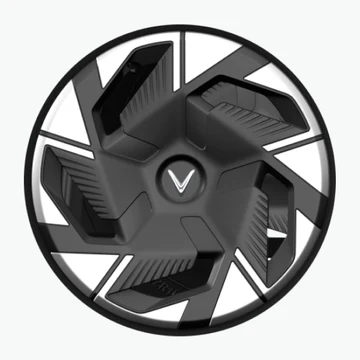
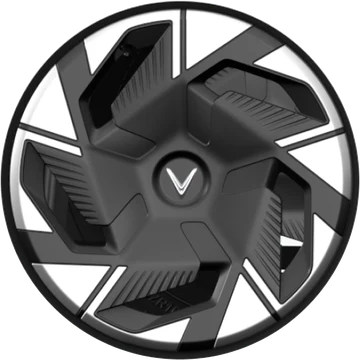
Ốp lazang: dùng chính ảnh thiết kế (cắt tròn, nền trong suốt) dán lên mặt ốp vồng + thành viền → giống 100% ảnh gốc

diff --git a/src/three/WheelCover.tsx b/src/three/WheelCover.tsx
@@ -1,118 +1,30 @@
-// Phụ kiện "Ốp lazang tua-bin": khối 3D dựng bằng code (không cần file model), lắp lên 4 mâm khi bật trong tab Phụ kiện.
-// Hình dạng theo ảnh mẫu: mâm nền trắng hơi vồng · viền đen ngoài · 5 cánh tua-bin đen xoắn, mỗi cánh có khung nổi + hốc lõm
-// có gân · tâm đen ngũ giác bo tròn · logo V bạc. Toạ độ cục bộ: mặt ốp nằm trên mặt phẳng XY, bán kính 1, +Z hướng ra ngoài;
-// mọi chi tiết được "ép" theo độ vồng của mặt ốp (dome) nên nằm sát bề mặt.
+// Phụ kiện "Ốp lazang tua-bin": dùng chính ảnh thiết kế (public/accessories/wheel-cover-face.webp — ảnh gốc cắt tròn,
+// nền trong suốt) dán lên 1 mặt ốp hơi vồng + thành viền dày như ốp thật → giữ nguyên 100% thiết kế.
+// Ốp tự tìm 4 mâm trong model (vùng "rim") và lắp đè ra ngoài mép mâm. Ảnh không bị lật ở bên nào (nhìn từ ngoài vào).
+// Đổi mẫu ốp: thay file ảnh (vuông, hình tròn sát mép, nền trong suốt).
 import { useEffect, useMemo } from 'react';
-import { useThree } from '@react-three/fiber';
+import { useLoader, useThree } from '@react-three/fiber';
 import * as THREE from 'three';
-import { mergeGeometries } from 'three/examples/jsm/utils/BufferGeometryUtils.js';
 
-const TAU = Math.PI * 2, DEG = Math.PI / 180;
-const BLADES = 5;
-const R0 = 0.3, R1 = 0.955;          // cánh: từ mép tâm tới sát viền đen
-const TWIST = -12 * DEG;              // cánh hơi nghiêng theo chiều kim đồng hồ khi đi ra ngoài (cánh gần như thẳng, góc cạnh)
-// bề rộng góc của cánh ở trong / ngoài (chu kỳ 72°): gần tâm cánh gần như liền nhau, ra ngoài hẹp lại
-// → phần trắng là các khe nhọn, rộng dần ra viền (như ảnh mẫu)
-const W0 = 70 * DEG, W1 = 55 * DEG;
-const TIP_CUT = 0.2;                 // đầu cánh cắt xéo: mép sau ngắn hơn mép trước → khe trắng hình tam giác nhọn
-const BLADE_H = 0.05, POCKET_H = 0.014, RIB_H = 0.02, HUB_H = 0.06;
+export const COVER_TEXTURE = '/accessories/wheel-cover-face.webp';
+const DOME = 0.07;        // độ vồng ở tâm (theo bán kính ốp)
+const EDGE = 0.06;        // bề dày thành viền
+const RIM_LIP = 0.008;    // m: khoảng nhô của mép mâm / thành lốp so với mặt ngoài vùng mâm
 
-/** Độ vồng của mặt ốp tại bán kính r (0 → 1). */
-const dome = (r: number) => 0.05 * (1 - Math.min(1, r / 0.95) ** 2) + 0.012;
-
-/** Góc giữa cánh tại bán kính r (xoắn dần ra ngoài). */
-const bladeCenter = (c: number, r: number) => c + TWIST * ((r - R0) / (R1 - R0));
-const bladeWidth = (r: number, inset = 0) => W0 + (W1 - W0) * ((r - R0) / (R1 - R0)) - inset;
-const polar = (r: number, a: number) => new THREE.Vector2(r * Math.cos(a), r * Math.sin(a));
-
-/** Viền 1 cánh (hoặc hốc bên trong nếu inset > 0) dạng đường khép kín. Mép trước dài tới rOut, mép sau dừng sớm hơn
- *  (cut) → đầu cánh là 1 đường cắt xéo theo cung. */
-function bladeOutline(c: number, rIn: number, rOut: number, inset: number, cut = TIP_CUT, n = 14): THREE.Vector2[] {
-  const pts: THREE.Vector2[] = [];
-  const edge = (r: number, side: 1 | -1) => bladeCenter(c, r) + side * bladeWidth(r, inset) / 2;
-  const rTrail = rOut - cut;
-  for (let i = 0; i <= n; i++) { const r = rIn + (rOut - rIn) * i / n; pts.push(polar(r, edge(r, 1))); }
-  // đầu cánh: đi theo cung, bán kính giảm dần từ mép trước (rOut) sang mép sau (rTrail) — nối thẳng thì đoạn thẳng
-  // băng qua ~60° sẽ võng sâu vào trong, cắt cụt cả đầu cánh
-  const a0 = edge(rOut, 1), a1 = edge(rTrail, -1);
-  for (let i = 1; i < 10; i++) { const t = i / 10; pts.push(polar(rOut + (rTrail - rOut) * t, a0 + (a1 - a0) * t)); }
-  for (let i = n; i >= 0; i--) { const r = rIn + (rTrail - rIn) * i / n; pts.push(polar(r, edge(r, -1))); }
-  for (let i = 1; i < 4; i++) { const a = edge(rIn, -1) + (edge(rIn, 1) - edge(rIn, -1)) * i / 4; pts.push(polar(rIn, a)); }
-  return pts;
-}
-
-/** Ép khối phẳng theo độ vồng: z += dome(r). */
-function conform(g: THREE.BufferGeometry, lift = 0) {
+/** Mặt ốp: đĩa chia nhiều vòng (để uốn vồng), toạ độ ảnh phẳng theo XY; +Z hướng ra ngoài. */
+function faceGeometry() {
+  const g = new THREE.RingGeometry(0.0005, 1, 128, 32);
   const p = g.attributes.position;
-  for (let i = 0; i < p.count; i++) { const x = p.getX(i), y = p.getY(i); p.setZ(i, p.getZ(i) + dome(Math.hypot(x, y)) + lift); }
+  for (let i = 0; i < p.count; i++) { const r = Math.hypot(p.getX(i), p.getY(i)); p.setZ(i, DOME * (1 - r * r)); }
   g.computeVertexNormals();
   return g;
 }
 
-const extrude = (shape: THREE.Shape, depth: number, bevel = 0.008) => new THREE.ExtrudeGeometry(shape, {
-  depth, curveSegments: 6, bevelEnabled: bevel > 0, bevelThickness: bevel, bevelSize: bevel, bevelSegments: 2,
-});
-
-/** Dựng hình học 1 ốp, gom theo vật liệu (mỗi vật liệu 1 lưới → 4 ốp chỉ 20 lưới). */
-export function buildCover() {
-  // mâm nền trắng + viền đen: xoay biên dạng quanh trục (lathe) rồi dựng đứng theo +Z
-  const lathe = (pts: [number, number][]) => new THREE.LatheGeometry(pts.map(([r, h]) => new THREE.Vector2(r, h)), 96).rotateX(Math.PI / 2);
-  const baseProfile: [number, number][] = [];
-  for (let i = 0; i <= 12; i++) { const r = 0.93 * i / 12; baseProfile.push([r, dome(r)]); }
-  baseProfile.push([0.93, 0.004]);
-  const base = lathe(baseProfile.reverse());
-  // viền đen ôm ra ngoài rồi vòng ngược vào trong (che khe giữa ốp và mép mâm)
-  const ring = lathe([[0.925, 0.0], [0.93, 0.03], [0.95, 0.045], [0.985, 0.04], [1.0, 0.015], [0.998, -0.06], [0.97, -0.08]].reverse() as [number, number][]);
-
-  const frames: THREE.BufferGeometry[] = [], pockets: THREE.BufferGeometry[] = [], ribs: THREE.BufferGeometry[] = [];
-  for (let b = 0; b < BLADES; b++) {
-    const c = b * TAU / BLADES + 90 * DEG;
-    // khung cánh: viền ngoài, khoét hốc bên trong
-    const shape = new THREE.Shape(bladeOutline(c, R0, R1, 0));
-    const hole = () => bladeOutline(c, R0 + 0.1, R1 - 0.1, 22 * DEG, TIP_CUT);
-    shape.holes.push(new THREE.Path(hole().reverse()));   // lỗ phải ngược chiều viền ngoài, nếu không mặt trên của khung bị hỏng
-    frames.push(conform(extrude(shape, BLADE_H)));
-    // đáy hốc (thấp, tối hơn)
-    const pocket = new THREE.Shape(hole());
-    pockets.push(conform(extrude(pocket, POCKET_H, 0)));
-    // gân trong hốc: các dải cung ngang cánh
-    for (let k = 0; k < 6; k++) {
-      const r = R0 + 0.14 + k * 0.058, half = bladeWidth(r, 26 * DEG) / 2, mid = bladeCenter(c, r), n = 8;
-      const outer: THREE.Vector2[] = [], inner: THREE.Vector2[] = [];
-      for (let i = 0; i <= n; i++) { const a = mid - half + 2 * half * i / n; outer.push(polar(r + 0.009, a)); inner.push(polar(r - 0.009, a)); }
-      ribs.push(conform(extrude(new THREE.Shape([...outer, ...inner.reverse()]), RIB_H, 0), POCKET_H));
-    }
-  }
-  // tâm: ngũ giác bo tròn (5 thuỳ nằm giữa các cánh)
-  const hubPts: THREE.Vector2[] = [];
-  for (let i = 0; i < 120; i++) { const a = i / 120 * TAU; hubPts.push(polar(0.33 * (1 + 0.1 * Math.cos(BLADES * (a - 90 * DEG))), a)); }
-  const hub = conform(extrude(new THREE.Shape(hubPts), HUB_H, 0.02));
-  // logo V (chữ V chĩa xuống)
-  const v = new THREE.Shape([[-0.1, 0.06], [-0.066, 0.06], [0, -0.035], [0.066, 0.06], [0.1, 0.06], [0, -0.09]].map(([x, y]) => new THREE.Vector2(x, y)));
-  const logo = extrude(v, 0.012, 0.004).translate(0, 0, dome(0) + HUB_H + 0.02);
-  logo.computeVertexNormals();
-
-  return {
-    base, ring, logo, hub,
-    frame: mergeGeometries(frames), pocket: mergeGeometries(pockets), rib: mergeGeometries(ribs),
-  };
+/** Thành viền: ống ngắn quanh mép, từ mặt ốp vòng vào trong mép mâm (che khe). */
+function edgeGeometry() {
+  const pts = [[0.965, -EDGE], [1.0, -EDGE * 0.6], [1.005, 0], [0.99, 0.004]].map(([r, z]) => new THREE.Vector2(r, z));
+  return new THREE.LatheGeometry(pts, 128).rotateX(Math.PI / 2);
 }
-
-function makeMaterials() {
-  const m = (color: string, roughness: number, extra: Partial<THREE.MeshPhysicalMaterialParameters> = {}) =>
-    new THREE.MeshPhysicalMaterial({ color, roughness, ...extra });
-  return {
-    base: m('#f1f1ee', 0.32, { clearcoat: 1, clearcoatRoughness: 0.08 }),   // phần trắng = màu của ốp
-    ring: m('#141517', 0.45, { clearcoat: 0.4 }),
-    frame: m('#3b3c41', 0.38, { clearcoat: 0.6, clearcoatRoughness: 0.15 }),   // xám than như ảnh mẫu
-    hub: m('#393a3f', 0.32, { clearcoat: 0.8, clearcoatRoughness: 0.12 }),
-    pocket: m('#1c1d21', 0.75),
-    rib: m('#45464b', 0.55),
-    logo: m('#d9dbde', 0.18, { metalness: 1 }),
-  };
-}
-
-const RIM_LIP = 0.008;   // m: khoảng nhô của mép mâm / thành lốp so với mặt ngoài vùng mâm
 
 interface WheelFrame { center: THREE.Vector3; side: 1 | -1; radius: number }
 
@@ -139,19 +51,28 @@ function findWheels(scene: THREE.Object3D): WheelFrame[] {
 
 /** 4 ốp lazang trên xe (chỉ khi đã bật trong tab Phụ kiện). */
 export function WheelCovers({ visible }: { visible: boolean }) {
-  const scene = useThree(s => s.scene);
-  const geo = useMemo(buildCover, []), mat = useMemo(makeMaterials, []);
+  const scene = useThree(s => s.scene), gl = useThree(s => s.gl);
+  const map = useLoader(THREE.TextureLoader, COVER_TEXTURE);
+  const geo = useMemo(() => ({ face: faceGeometry(), edge: edgeGeometry() }), []);
+  const mat = useMemo(() => {
+    map.colorSpace = THREE.SRGBColorSpace;
+    map.anisotropy = gl.capabilities.getMaxAnisotropy();
+    return {
+      // ảnh đã có sẵn bóng đổ / điểm sáng của thiết kế; thêm lớp phủ bóng nhẹ để mặt vồng bắt sáng khi xoay xe
+      face: new THREE.MeshPhysicalMaterial({ map, transparent: true, alphaTest: 0.5, roughness: 0.55, clearcoat: 0.6, clearcoatRoughness: 0.2 }),
+      edge: new THREE.MeshPhysicalMaterial({ color: '#141517', roughness: 0.45, clearcoat: 0.4 }),
+    };
+  }, [map, gl]);
   const wheels = useMemo(() => findWheels(scene), [scene]);
   useEffect(() => () => { Object.values(geo).forEach(g => g.dispose()); Object.values(mat).forEach(m => m.dispose()); }, [geo, mat]);
   const noRay = () => {};   // không chặn chuột: bấm vào ốp vẫn chọn được vùng phía sau
   return (
     <group visible={visible}>
       {wheels.map((w, i) => (
-        // lắp đè ra ngoài mép mâm + thành lốp (mép mâm nhô ra ~5mm so với mặt mâm, đặt thấp hơn sẽ bị che mất phần ngoài của ốp)
+        // lắp đè ra ngoài mép mâm + thành lốp (đặt thấp hơn sẽ bị mép mâm che mất phần ngoài của ốp)
         <group key={i} position={[w.center.x + w.side * RIM_LIP, w.center.y, w.center.z]} rotation={[0, w.side * Math.PI / 2, 0]} scale={w.radius * 1.02}>
-          {(Object.keys(geo) as (keyof typeof geo)[]).map(k => (
-            <mesh key={k} geometry={geo[k]} material={mat[k]} castShadow receiveShadow raycast={noRay} />
-          ))}
+          <mesh geometry={geo.face} material={mat.face} castShadow receiveShadow raycast={noRay} />
+          <mesh geometry={geo.edge} material={mat.edge} castShadow receiveShadow raycast={noRay} />
         </group>
       ))}
     </group>

diff --git a/src/three/Studio.tsx b/src/three/Studio.tsx
@@ -205,7 +205,8 @@ export function Lights() {
 /** Phụ kiện đang lắp (tab Phụ kiện). */
 function Accessories() {
   const fitted = useDesign(s => s.accessories);
-  return <WheelCovers visible={!!fitted.wheelCover} />;
+  // chỉ tải ảnh ốp khi đã lắp; Suspense: đang tải ảnh không làm trống cả khung 3D
+  return <Suspense fallback={null}>{fitted.wheelCover && <WheelCovers visible />}</Suspense>;
 }
 
 export function Studio({ active = true }: { active?: boolean }) {

diff --git a/PLAN.md b/PLAN.md
@@ -85,7 +85,7 @@ Web **1 trang** (`src/pages/Home.tsx`): Hero · Tính năng cơ bản (#tinh-nan
 ## Phụ kiện (tab thứ 3 của trình phối)
 - Danh sách ở `src/config/accessories.ts`; trạng thái lắp/tháo nằm trong thiết kế (`accessories` trong `src/store/design.ts`): có hoàn tác, tự lưu, Reset thì tháo hết, có trong Hình ảnh SkinVF3.
 - Giao diện: máy tính = bảng bên phải (`src/ui/AccessoryPanel.tsx`), điện thoại = dải thẻ trong dock. Chạm thẻ = lắp / tháo.
-- **Ốp lazang tua-bin** (`src/three/WheelCover.tsx`): khối 3D dựng bằng code theo ảnh mẫu (`public/accessories/wheel-cover.webp`) — mâm nền trắng hơi vồng, viền đen, 5 cánh xám than có hốc + gân, đầu cánh cắt xéo theo cung (tạo khe trắng nhọn), tâm ngũ giác, logo V bạc. Tự tìm 4 mâm trong model (vùng `rim`), lắp đè ra ngoài mép mâm (`RIM_LIP`). Chỉnh dáng: các hằng số đầu file (`W0/W1` bề rộng cánh, `TWIST` độ nghiêng, `TIP_CUT` cắt đầu cánh, màu ở `makeMaterials`).
+- **Ốp lazang tua-bin** (`src/three/WheelCover.tsx`): dán chính ảnh thiết kế (`public/accessories/wheel-cover-face.webp` — ảnh gốc cắt tròn, nền trong suốt, 1024px) lên mặt ốp hơi vồng (`DOME`) + thành viền đen (`EDGE`) → giữ nguyên 100% thiết kế. Tự tìm 4 mâm trong model (vùng `rim`), lắp đè ra ngoài mép mâm (`RIM_LIP`); ảnh không bị lật ở bên nào. Đổi mẫu ốp: thay file ảnh (vuông, hình tròn sát mép, nền trong suốt) + ảnh thẻ `wheel-cover.webp`.
 - Thêm phụ kiện mới: 1 mục trong `ACCESSORIES` + 1 khối 3D, gắn vào `Accessories()` trong `src/three/Studio.tsx`.
 
 ## Điện thoại (màn cảm ứng)
